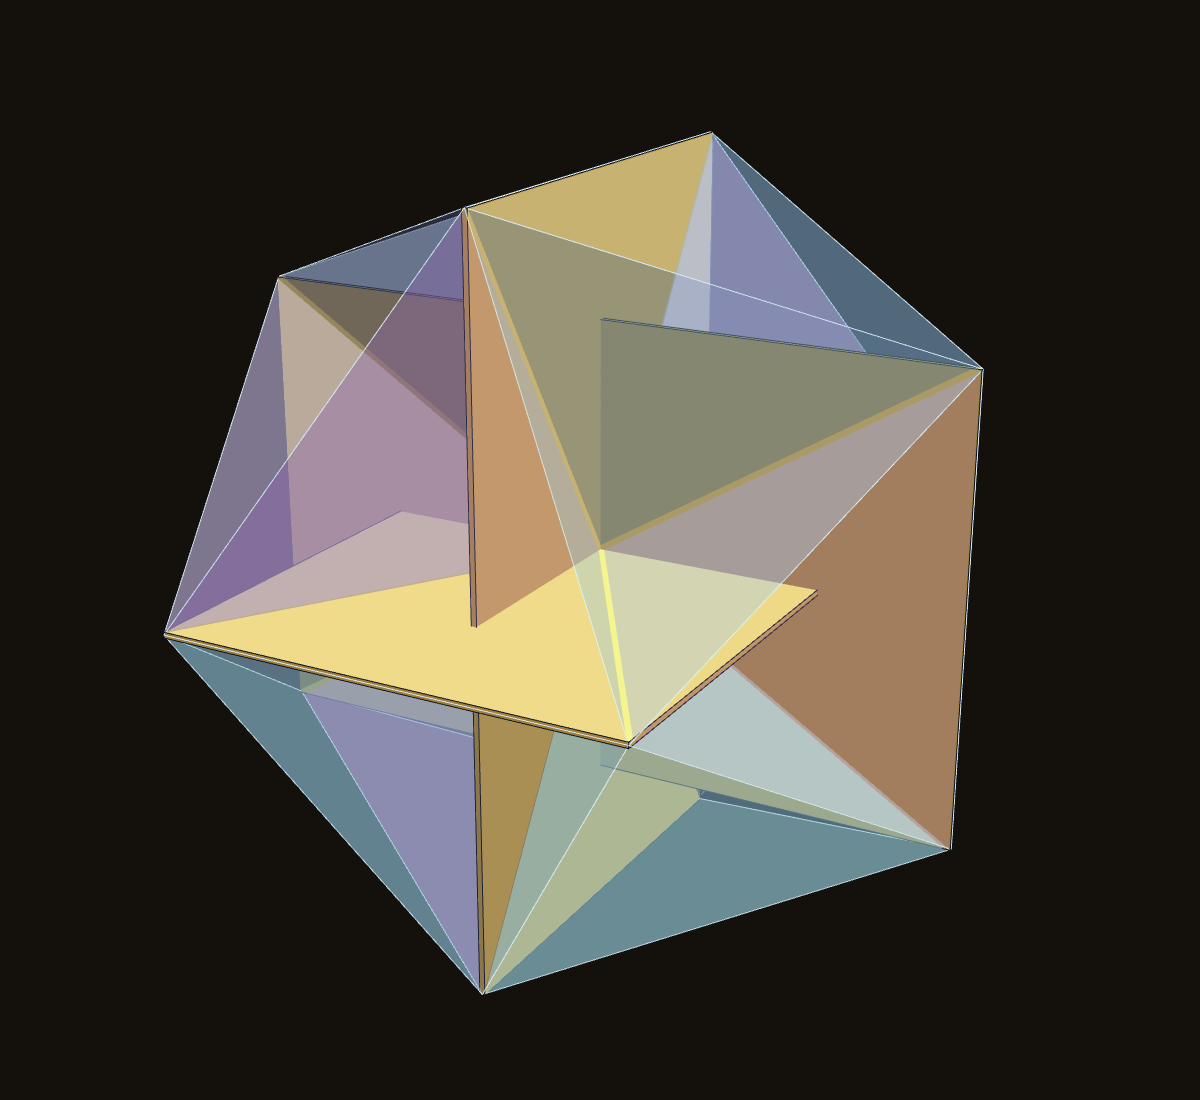
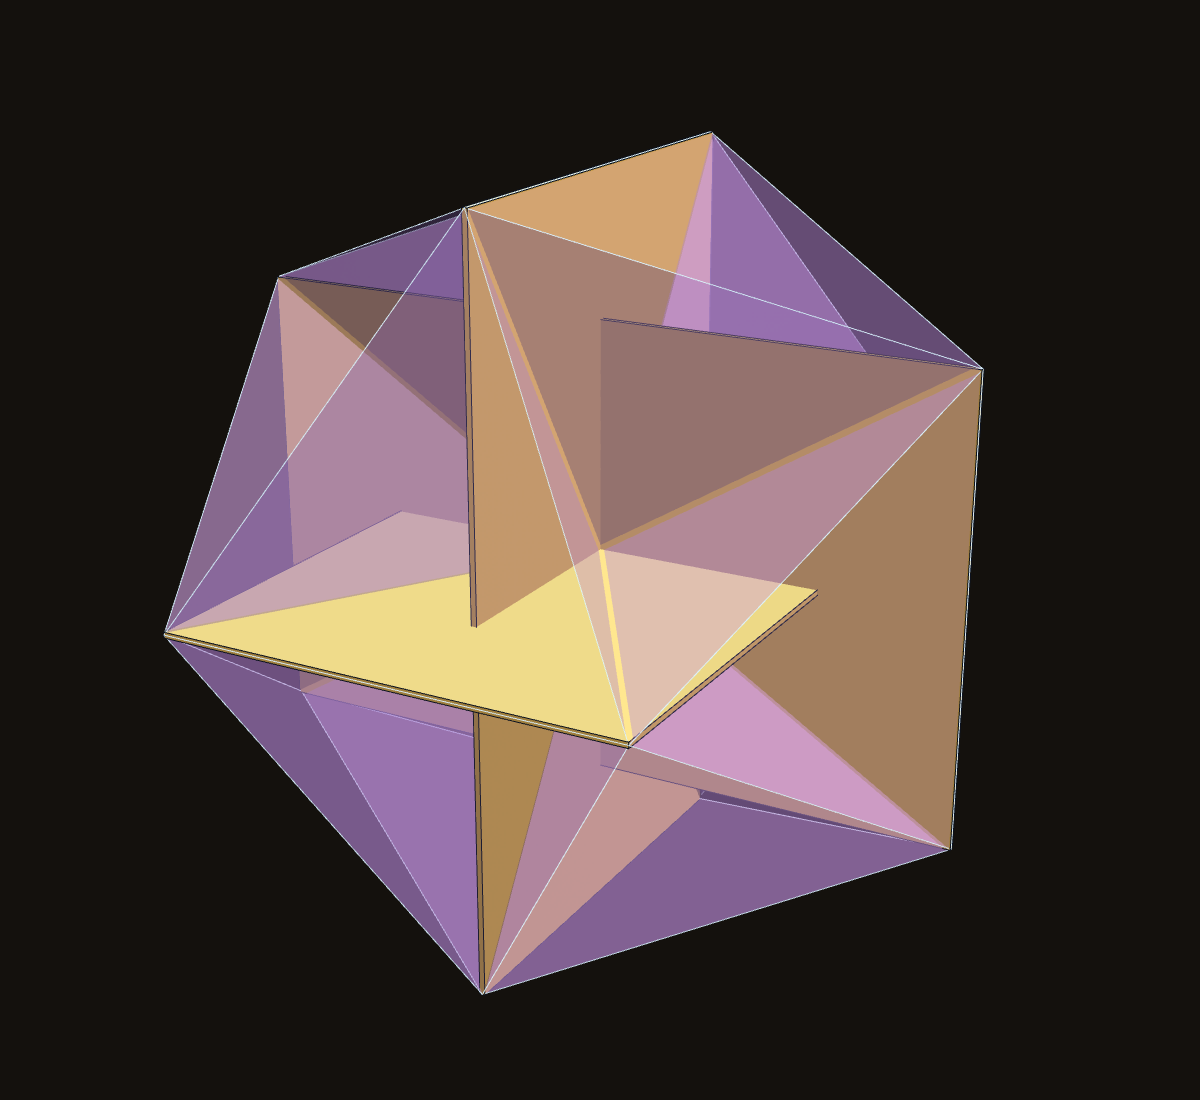
Pacioli figure: one viewpoint for both panels, two colours (DICTO)

Changed region(s): [[0.1542, 0.5873, 0.8017, 0.8964], [0.555, 0.1236, 0.8017, 0.34], [0.2467, 0.1855, 0.37, 0.2782]]

diff --git a/studies/2026-10-14-fuji-family/scripts/pacioli_fig.py b/studies/2026-10-14-fuji-family/scripts/pacioli_fig.py
@@ -1,4 +1,4 @@
-# Figure (DICTO 2026-10-14): Pacioli's three golden rectangles and the 20 Cleo-Icos. (a) crystal view: all 20 Cleo-Icos as glass (the 6 on the rectangles' short sides wisteria), and the
+# Figure (DICTO 2026-10-14): Pacioli's three golden rectangles and the 20 Cleo-Icos. (a) crystal view: all 20 Cleo-Icos as wisteria glass, and the
 # three rectangles through the centre; (b) the rectangles alone, each cut by its diagonals: the short-side triangles (63.43° at the
 # centre, Cleo-Icos side faces) wisteria, the long-side triangles (116.57°) gold. DICTO · dictospheres.com
 import itertools, json, os
@@ -35,10 +35,10 @@ for z, R in enumerate(RECTS):
         if abs(np.linalg.norm(p - q) - 1) > 1e-9: continue
         f = [t for t in F if all(any(np.allclose(V[i], x) for i in t) for x in (p, q))]
         defining.add(max(f, key=lambda t: V[list(t)].mean(0) @ np.roll(np.eye(3)[z], 1)))
-# crystal: all 20 Cleo-Icos as glass, the 6 the rectangles define in wisteria, the other 14 pale blue
+# crystal: all 20 Cleo-Icos as wisteria glass; two colours only (DICTO 2026-10-14: too many colours)
 for f in F:
     T = [np.zeros(3)] + [V[i] for i in f]
-    a_items.append(('w1g' if f in defining else 'w5g', [[T[1], T[2], T[3]], [T[0], T[2], T[1]], [T[0], T[3], T[2]], [T[0], T[1], T[3]]]))
+    a_items.append(('w1g', [[T[1], T[2], T[3]], [T[0], T[2], T[1]], [T[0], T[3], T[2]], [T[0], T[1], T[3]]]))
 for z, R in enumerate(RECTS): a_items.append(('w2', slab(R, np.eye(3)[z])))
 b_items = []
 for z, R in enumerate(RECTS):
